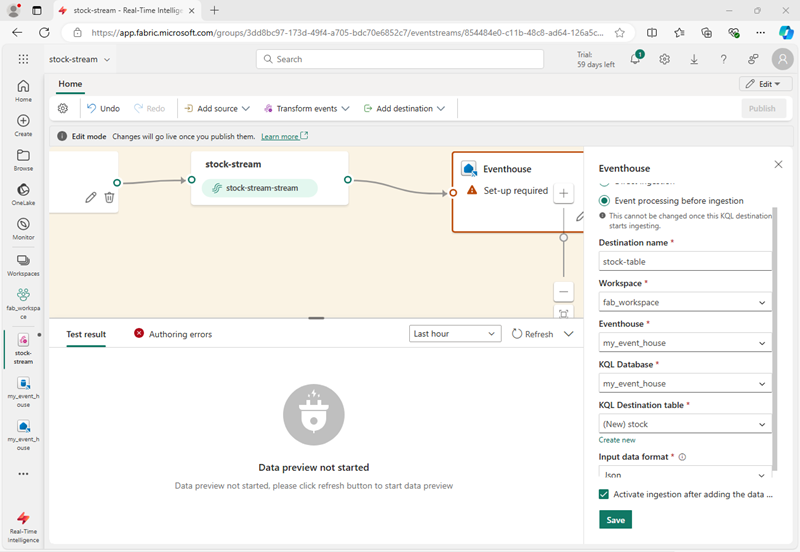
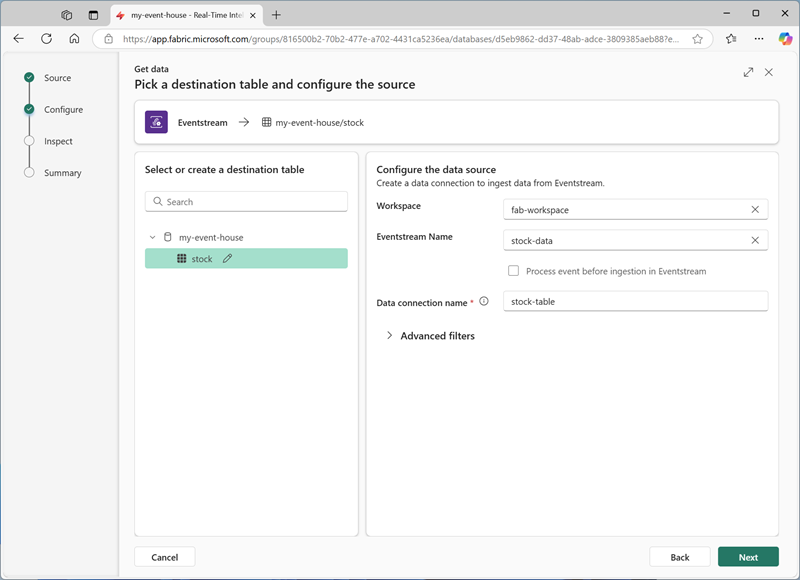
Updated to use RT hub

diff --git a/Instructions/Labs/07-real-time-Intelligence.md b/Instructions/Labs/07-real-time-Intelligence.md
@@ -6,7 +6,7 @@ lab:
 
 # Get started with Real-Time Intelligence in Microsoft Fabric
 
-Microsoft Fabric provides a Real-Time Hub in which you can create analytical solutions for real-time data streams. In this exercise, you'll explore some of the main features of the Real-Time Intelligence capabilities in Microsoft Fabric in order to familiarize yourself with them.
+Microsoft Fabric provides Real-Time Intelligence, enabling you to create analytical solutions for real-time data streams. In this exercise, you'll use the Real-Time Intelligence capabilities in Microsoft Fabric to ingest, analyze, and visualize a real-time stream of stock market data.
 
 This lab takes approximately **30** minutes to complete.
 
@@ -23,51 +23,66 @@ Before working with data in Fabric, you need to create a workspace with the Fabr
 
     ![Screenshot of an empty workspace in Fabric.](./Images/new-workspace.png)
 
+## Create an eventstream
+
+Now you're ready to find and ingest real-time data from a streaming source. To do this, you'll start in the Fabric Real-Time Hub.
+
+> **Tip**: The first time you use the Real-Time Hub, some *getting started* tips may be displayed. You can close these.
+
+1. In the menu bar on the left, select the **Real-Time** hub.
+
+    The real-time hub provides an easy way to find and manage sources of streaming data.
+
+    ![Screenshot of the real-time hub in Fabric.](./Images/real-time-hub.png)
+
+1. In the real-time hub, in the **Connect to** section, select **Data sources**.
+1. Find the **Stock market** sample data source and select **Connect**. Then in the **Connect** wizard, name the source `stock` and edit the default eventstream name to change it to `stock-data`. The default stream associated with this data will automatically be named *stock-data-stream*:
+
+
+    ![Screenshot of a new eventstream.](./Images/name-eventstream.png)
+
+1. Select **Next** and wait for the source and eventstream to be created, then select **Open eventstream**. The eventstream will show the **stock** source and the **stock-data-stream** on the design canvas:
+
+   ![Screenshot of the eventstream canvas.](./Images/new-stock-stream.png)
+
 ## Create an eventhouse
 
-Now that you have a workspace, you can start creating the Fabric items you'll need for your real-time intelligence solution. we'll start by creating an eventhouse, which contains a KQL database for your real-time data.
+The eventstream ingests the real-time stock data, but doesn't currently do anything with it. Let's create an eventhouse where we can store the captured data in a table.
 
 1. On the menu bar on the left, select **Home**; and then in the Real-Time Intelligence home page, create a new **Eventhouse**, giving it a unique name of your choice.
-1. Close any tips or prompts that are displayed until you see your new empty eventhouse.
+
+    Close any tips or prompts that are displayed until you see your new empty eventhouse.
 
     ![Screenshot of a new eventhouse](./Images/create-eventhouse.png)
 
 1. In the pane on the left, note that your eventhouse contains a KQL database with the same name as the eventhouse. You can create tables for your real-time data in this database, or create additional databases as necessary.
 1. Select the database, and note that there is an associated *queryset*. This file contains some sample KQL queries that you can use to get started querying the tables in your database.
 
-    However, currently there are no tables to query. Let's resolve that problem by using an eventstream to ingest some data into the database.
-
-## Create an eventstream
+    However, currently there are no tables to query. Let's resolve that problem by getting data from the eventstream into a new table.
 
 1. In the main page of your KQL database, select **Get data**.
-2. For the data source, select **Eventstream** > **New eventstream**. Name the Eventstream `stock-stream`.
+1. For the data source, select **Eventstream** > **Existing eventstream**.
+1. In the **Select or create a destination table** pane, create a new table named `stock`. Then in the **Configure the data source** pane, select your workspace and the **stock-data** eventstream and name the connection `stock-data`.
 
-    The creation of your new eventstream will be completed in just a few moments. Once established, you will be automatically redirected to the primary editor, ready to begin integrating sources into your event stream.
+   ![Screenshot of configuration for loading a table from an eventstream.](./Images/configure-destination.png)
 
-    ![Screenshot of a new eventstream.](./Images//name-eventstream.png)
+1. Use the **Next** button to complete the steps to inspect the data and then finish the configuration. Then close the configuration window to see your eventhouse with the stock table.
 
-1. In the eventstream canvas, select **Use sample data**.
-1. Name the source `Stock`, and select the **Stock Market** sample data.
+   ![Screenshot of and eventhouse with a table.](./Images/eventhouse-with-table.png)
 
-    Your stream will be mapped and you will be automatically displayed on the **eventstream canvas**.
+    The connection between the stream and the table has been created. Let's verify that in the eventstream.
 
-   ![Screenshot of the eventstream canvas.](./Images/new-stock-stream.png)
+1. In the menu bar on the left, select the **Real-Time** hub and then view the **My data streams** page. The **stock** table and the **stock-data-stream** stream should be listed.
 
-1. In the **Transform events or add destination** drop-down list, in the **Destinations** section, select **Eventhouse**.
-1. In the **Eventhouse** pane, configure the following setup options.
-   - **Data ingestion mode:**: Event processing before ingestion
-   - **Destination name:** `stock-table`
-   - **Workspace:** *Select the workspace you created at the beginning of this exercise*
-   - **Eventhouse**: *Select your eventhouse*
-   - **KQL database:** *Select your eventhouse KQL database*
-   - **Destination table:** Create a new table named `stock`
-   - **Input data format:** JSON
+   ![Screenshot of the my streams page in the real-time hub.](./Images/my-data-streams.png)
 
-   ![KQL Database eventstream with ingestion modes](./Images/configure-destination.png)
+1. In the **...** menu for the **stock-data-stream** stream, select **Open eventstream**.
 
-1. In the **Eventhouse** pane, select **Save**.
-1. On the toolbar, select **Publish**.
-1. Wait a minute or so for the data destination to become active.
+    The eventstream now shows a destination for the stream:
+
+   ![Screenshot an eventstream with a destination.](./Images/eventstream-destination.png)
+
+    > **Tip**: Select the destination on the design canvas, and if no data preview is shown beneath it, select **Refresh**.
 
     In this exercise, you've created a very simple eventstream that captures real-time data and loads it into a table. In a real soltuion, you'd typically add transformations to aggregate the data over temporal windows (for example, to capture the average price of each stock over five-minute periods).
 
